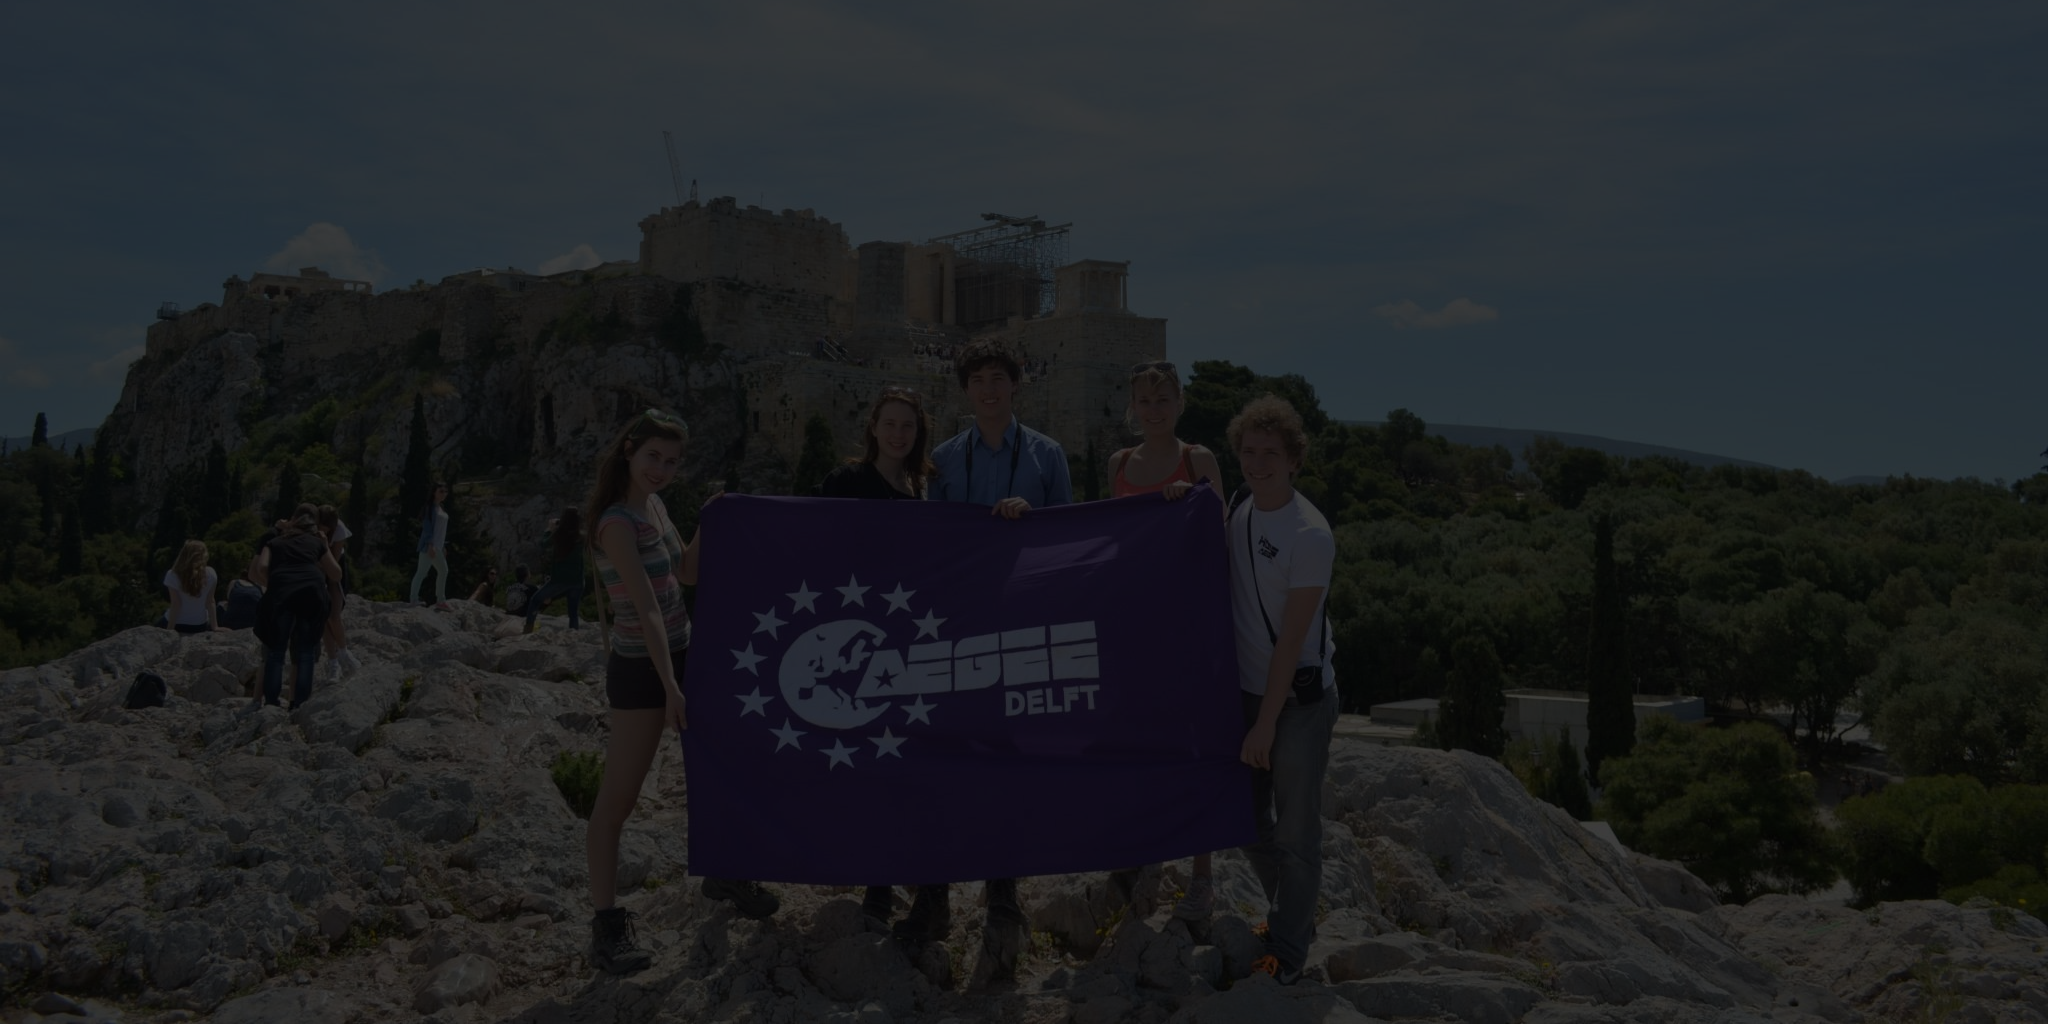
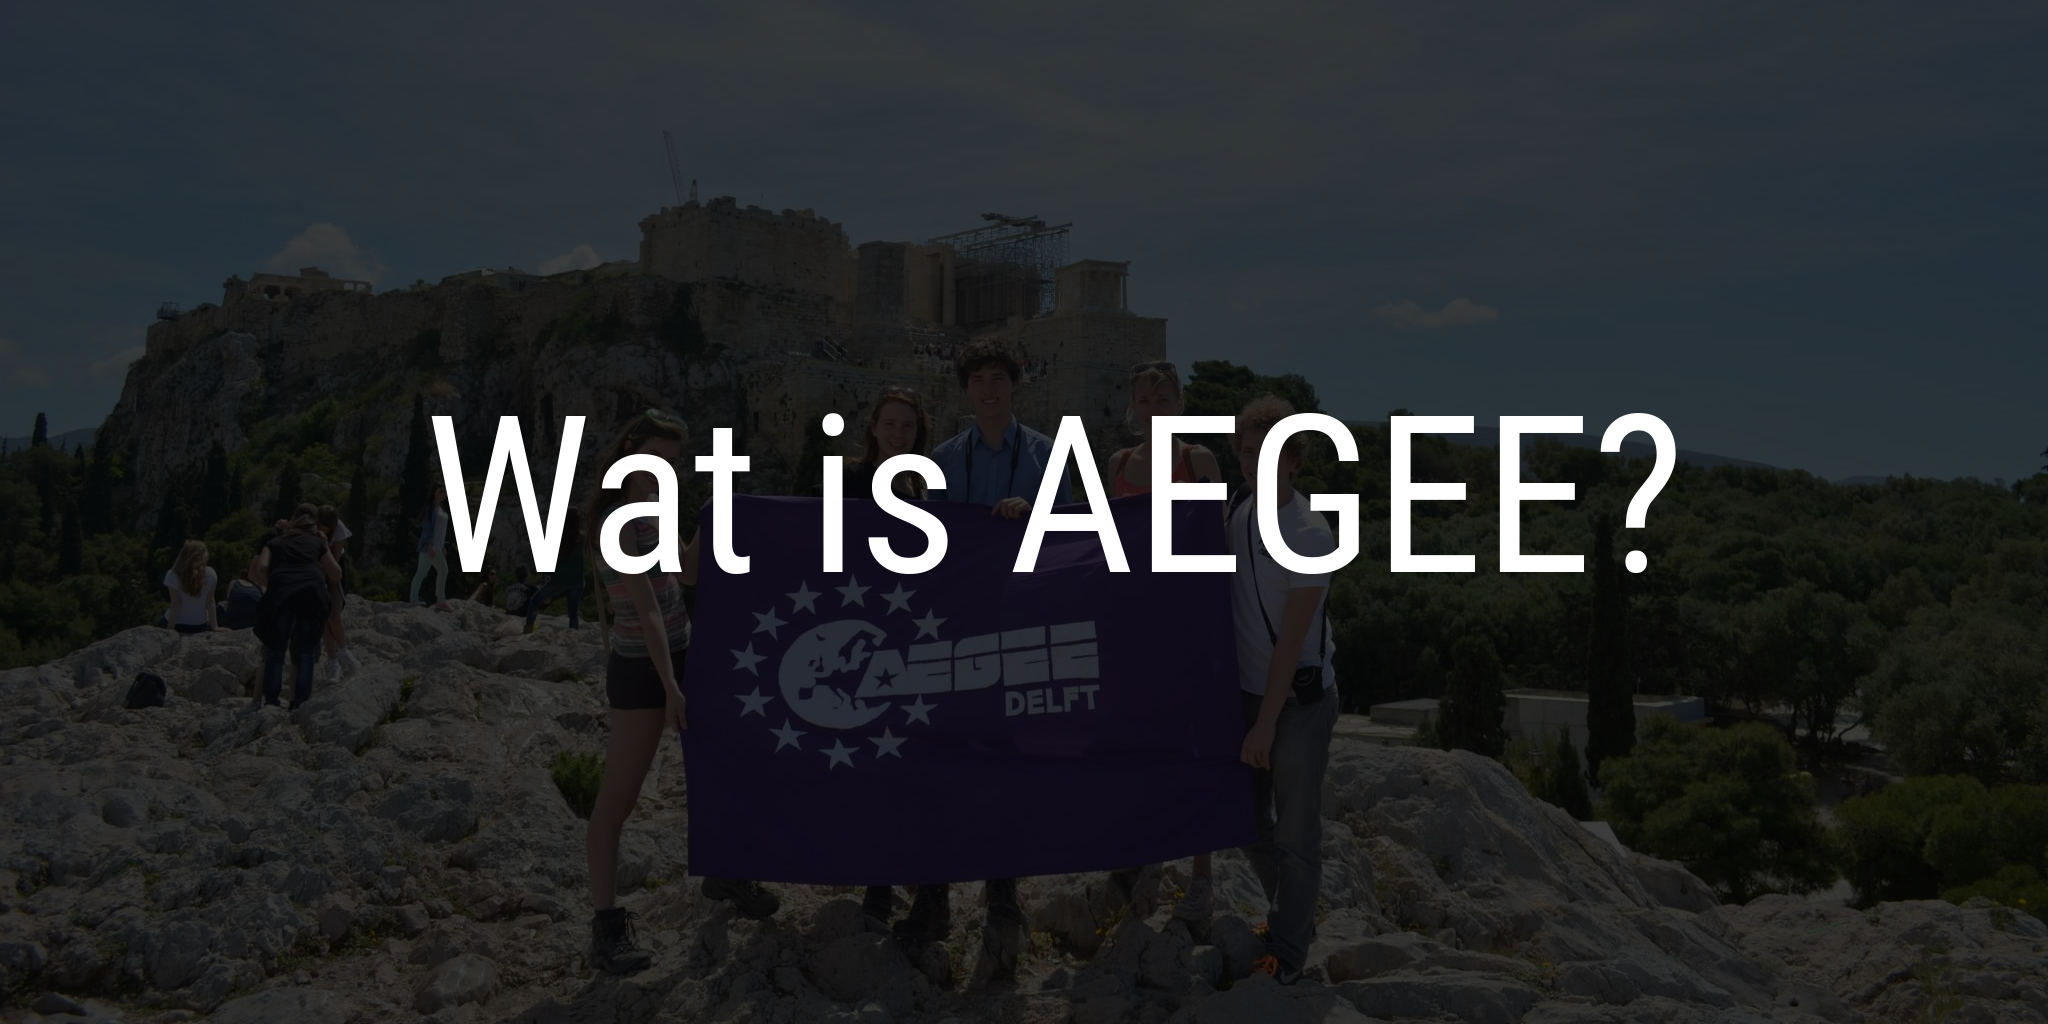
mobmob

Changed region(s): [[0.5, 0.4062, 0.8438, 0.5625], [0.1875, 0.4062, 0.4688, 0.5625]]

diff --git a/owee/mob/mob.css b/owee/mob/mob.css
@@ -4,15 +4,11 @@ body {
 	padding: 0;
 	margin: 0;
 	font-family: 'Roboto Condensed', sans-serif;
-	background-size: cover; 
-	overflow: hidden;
+	background-color: #e3e4f9;
 }
 
 #header{
-	position: absolute;
 	width: 100%;
-	left: 0;
-	top: 0;
 }
 
 #black overlay{
@@ -31,35 +27,8 @@ body {
 }
 
 #text{
-	background-color: #e3e4f9;
 	min-height: 100%;
 	color: #2d353c;
 	padding: 5%;
 	font-size: 30px;
-	padding-top: 55%;
-}
-
-#menu {
-	background-color: #b19cd9;
-	height: 10%;
-	width: 100%;
-	font-size: 4vh;
-	line-height: 100%;
-    text-align:center;
-    color: white;
-}
-
-#title {
-	position: absolute;
-    top: 0;
-    bottom: 0;
-    left: 0;
-    right: 0;
-    width: 100%;
-    padding-top:13%;
-    height: 30%;
-    color: white;
-	font-size: 70px;
-	text-weight: bold;
-    text-align:center;
 }

diff --git a/owee/mob/mob.html b/owee/mob/mob.html
@@ -9,12 +9,6 @@
 <body ng-controller="MainCtrl">
 	<img id="header" src="header.png"></img>
 
-	<div id="title" style="display:table;">
-	  <div style="display:table-cell;vertical-align:middle;">
-	    <div style="margin-left:auto;margin-right:auto;">Wat is AEGEE?</div>
-	  </div>
-	</div>
-
 
 	<div id="text">
 <h4>Wat is AEGEE?</h4>
@@ -24,7 +18,7 @@ van delft.
 </p><p>
 Bij ons kun je dit en dat doen en dan nog
 eens veel meer. Super leuk, liften enzo andere gaven dingen, zoals eten. 
-</p><p>
+</p><p>	
 Naast eten kan je ook nog andere dingen doen, zoals drinken. Dat is ook leuk om te doen. Allemaal leuke mensen om je heen. Net vakantie enzo. 
 </p>
 	</div>
